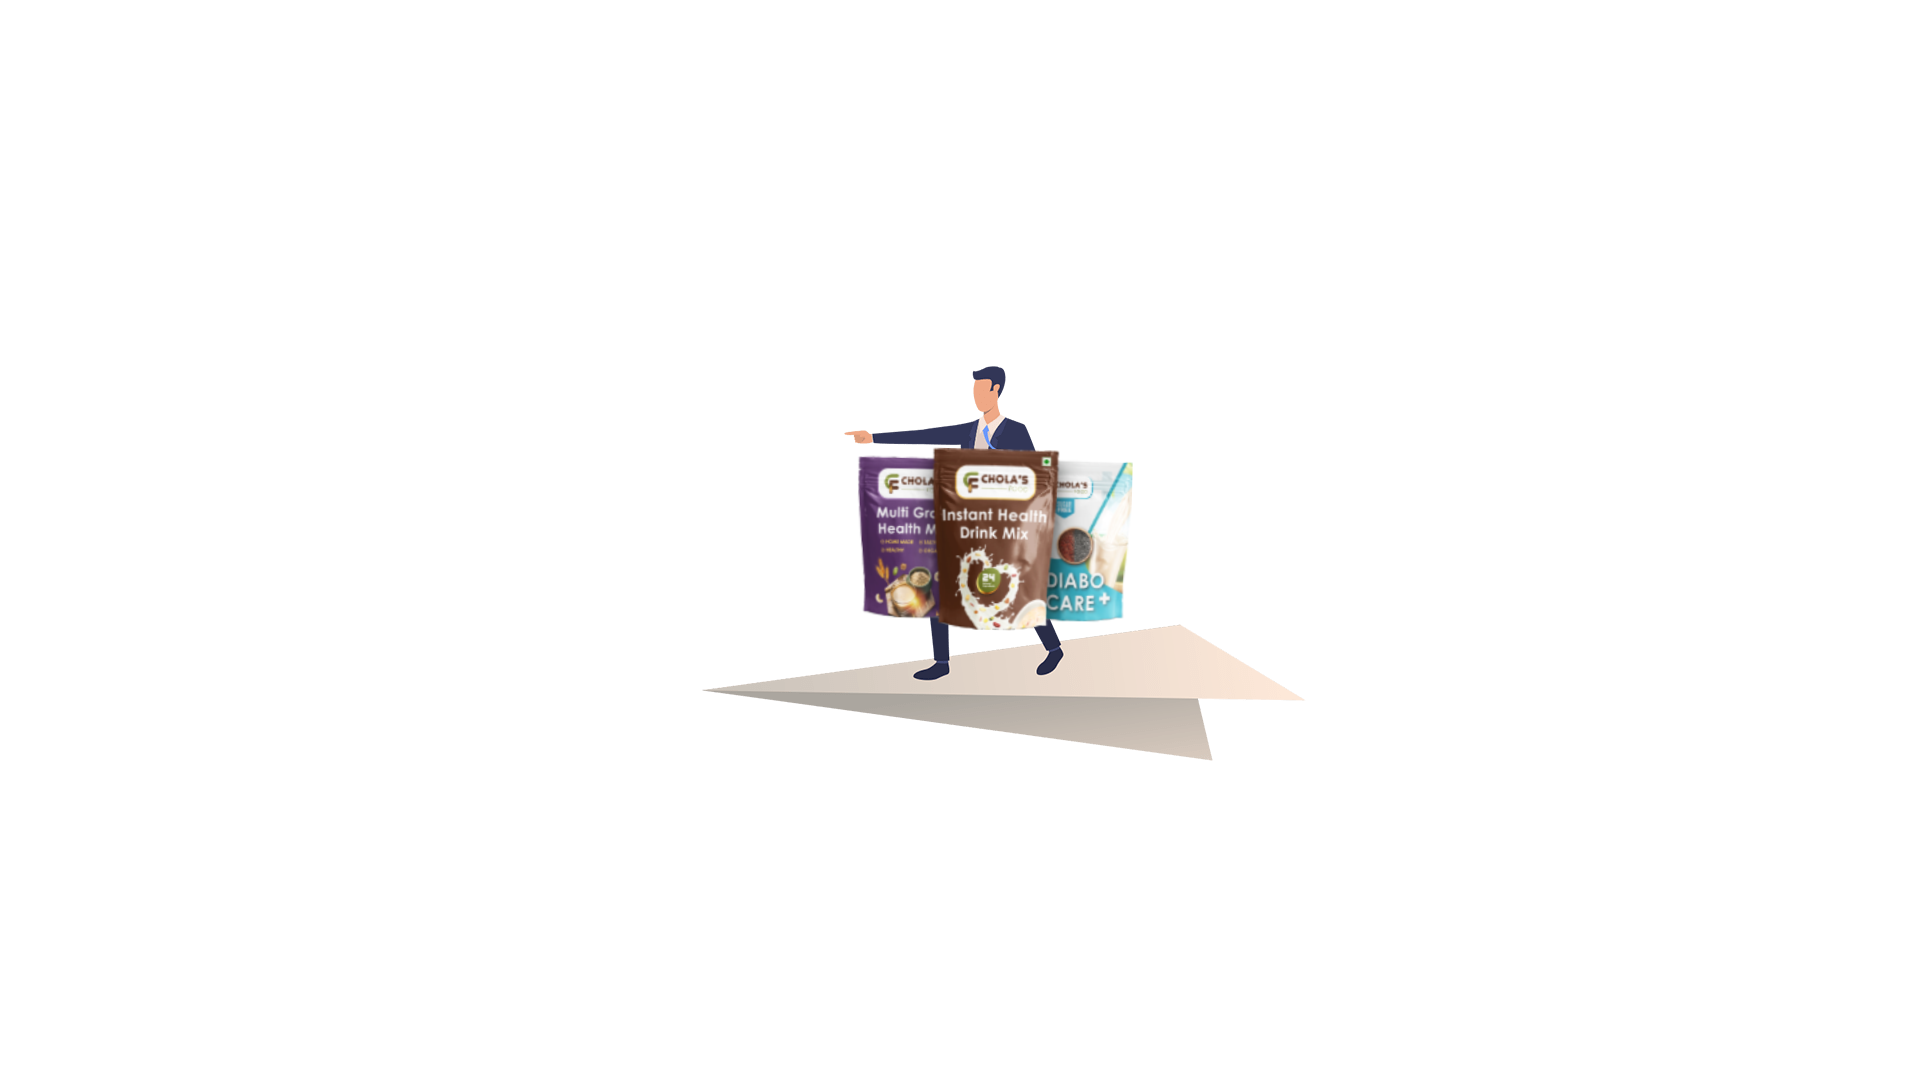
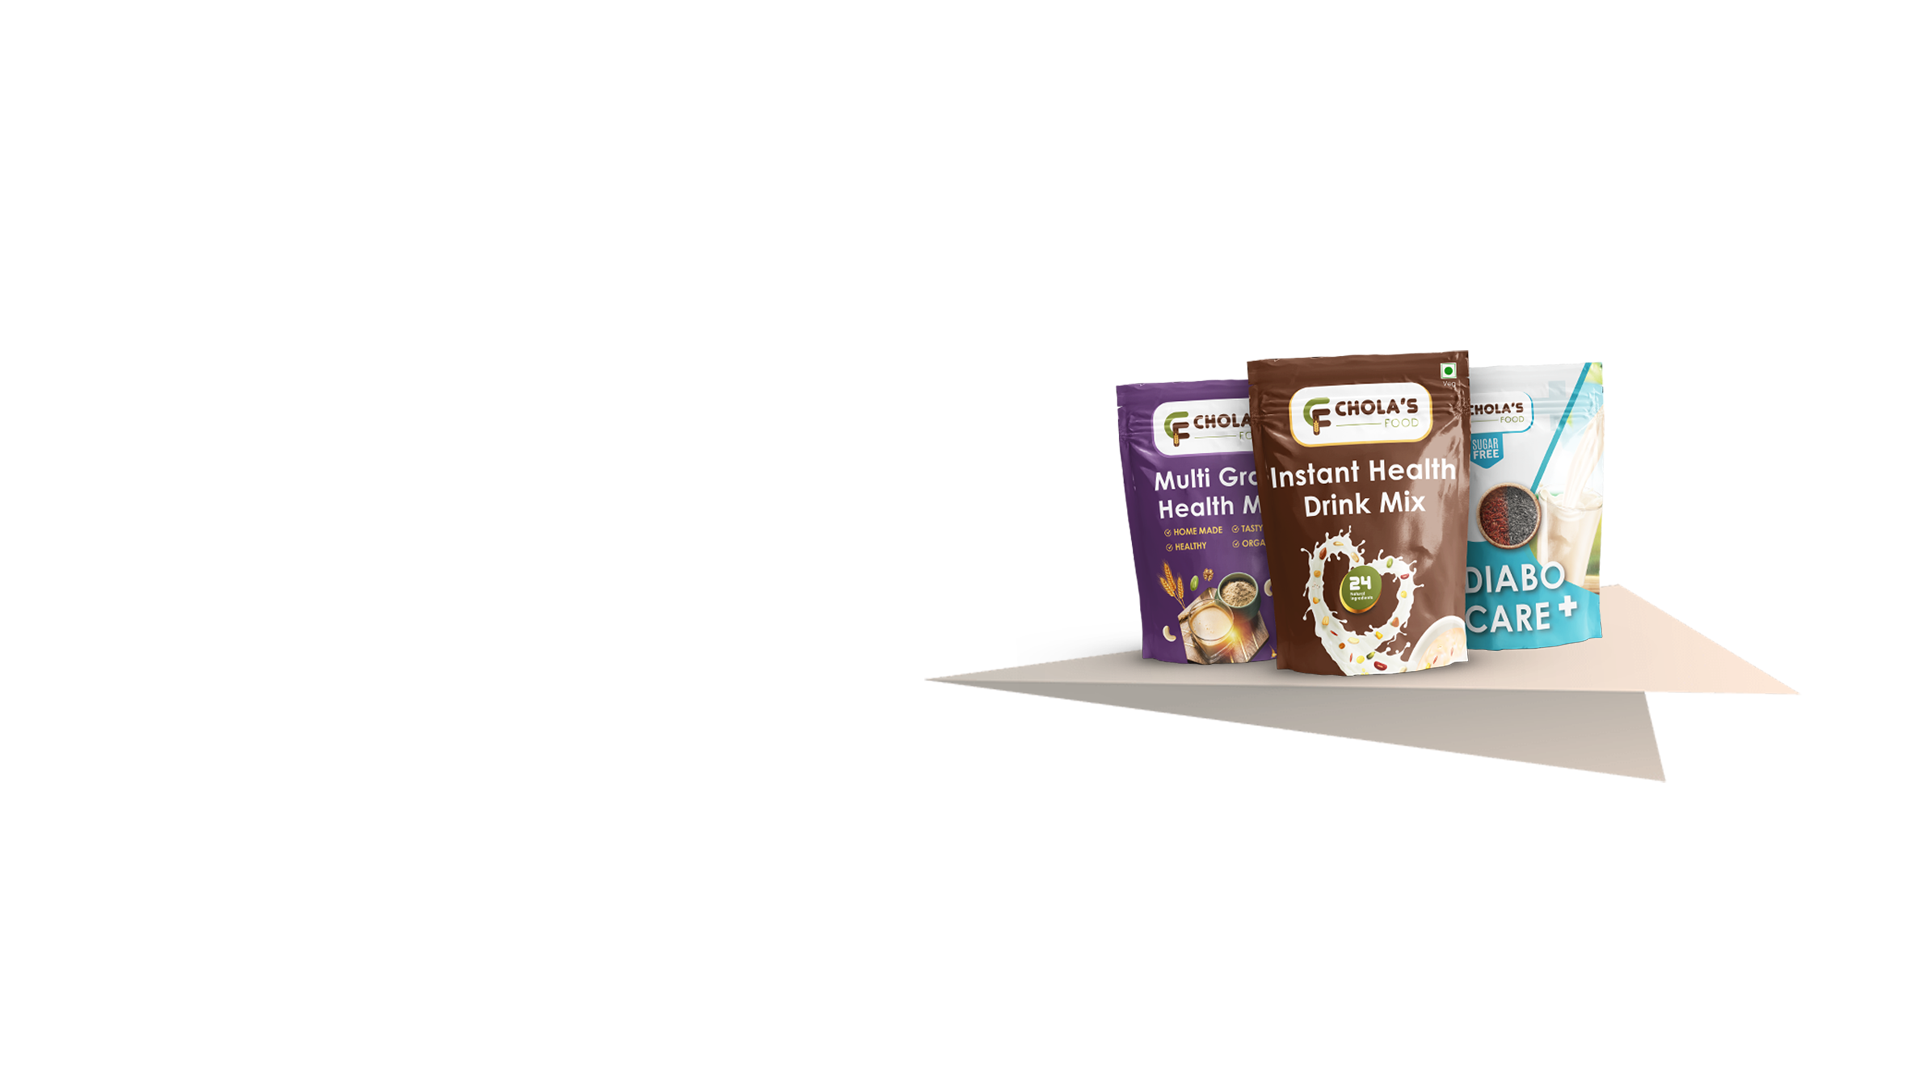
Img Final

Changed region(s): [[0.375, 0.3056, 0.9375, 0.7333]]

diff --git a/index.html b/index.html
@@ -168,8 +168,8 @@
 			<div class="city-box" style="background-image:url(images/background/bg7.jpg); background-position:bottom right;">
 				<div class="cloud-box"></div>
 				<div class="fly-box box1 wow fadeInRight" data-wow-duration="2.5s" data-wow-delay="1.5s"><img src="images/main-slider/slide-para11.png" alt=""/></div>
-				<div class="fly-box box2 wow fadeInRight" data-wow-duration="2.5s" data-wow-delay="2.0s"><img src="images/main-slider/slide-para10.png" alt=""/></div>
-				<div class="fly-box box3 wow fadeInRight" data-wow-duration="2.5s" data-wow-delay="2.5s"><img src="images/main-slider/slide-para12.png" alt=""/></div>
+				<!-- <div class="fly-box box2 wow fadeInRight" data-wow-duration="2.5s" data-wow-delay="2.0s"><img src="images/main-slider/slide-para10.png" alt=""/></div>
+				<div class="fly-box box3 wow fadeInRight" data-wow-duration="2.5s" data-wow-delay="2.5s"><img src="images/main-slider/slide-para12.png" alt=""/></div> -->
 			</div>
             <div class="clearfix dez-coming-bx">
 				
